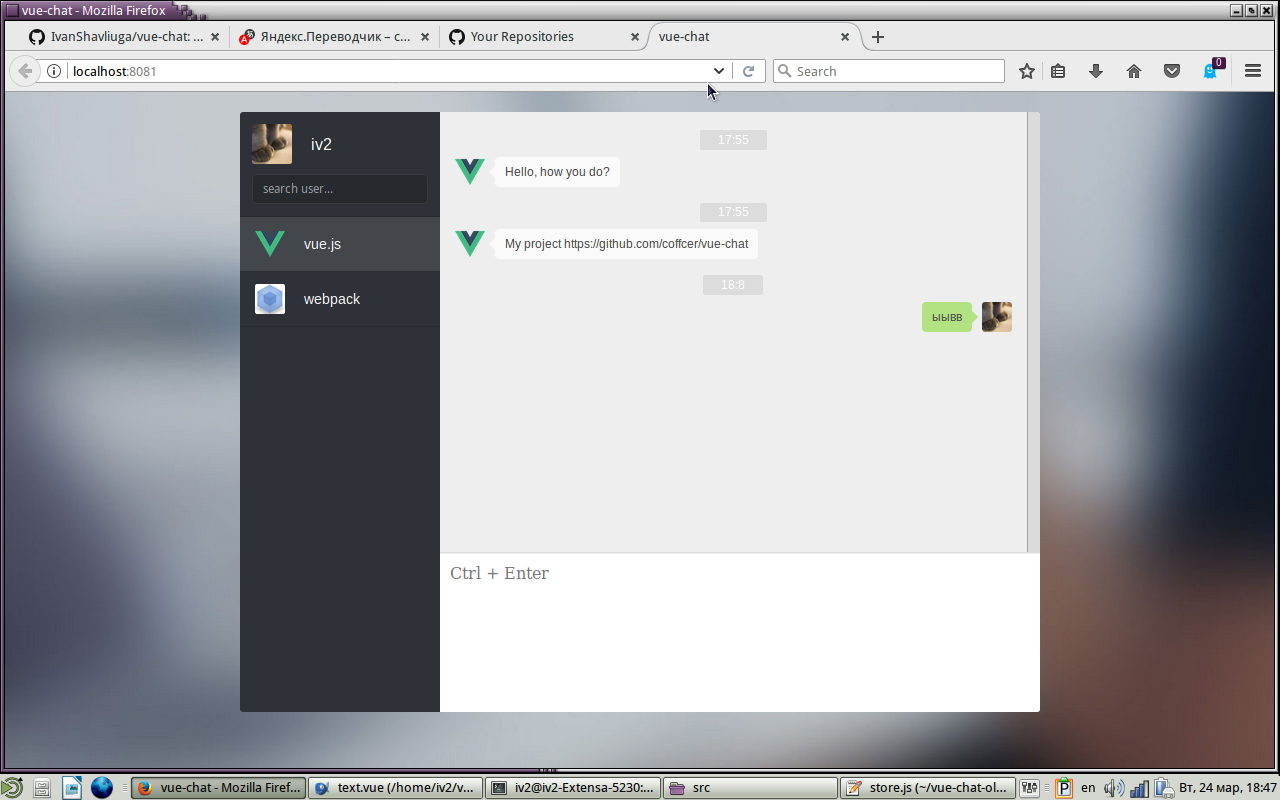
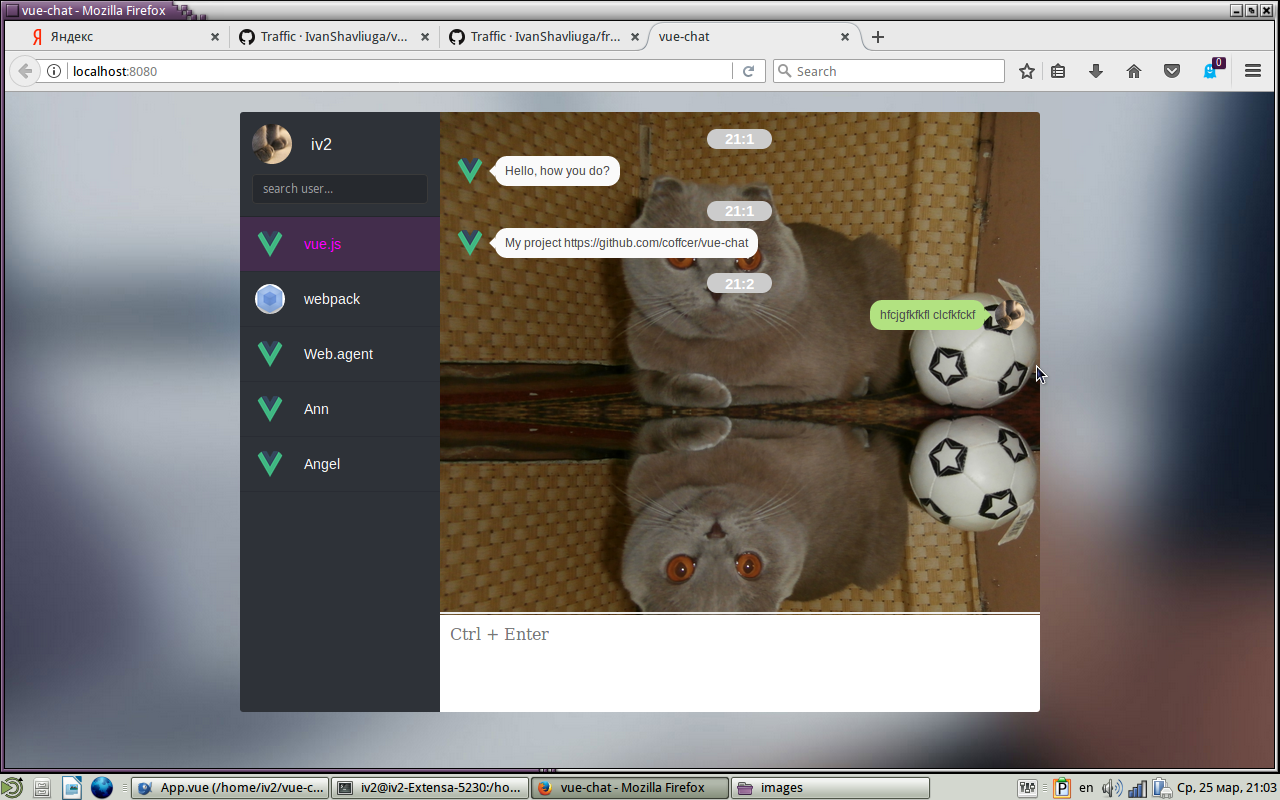
Update background

diff --git a/src/components/message.vue b/src/components/message.vue
@@ -2,7 +2,6 @@
     import {mapGetters, mapState} from 'vuex';
     export default {
         computed: {
-            // 使用 (...) 对象展开运算符将 getter 以及 state 混入 computed 对象中
             ...mapGetters([
                 'session'
             ]),
@@ -11,7 +10,6 @@
             ])
         },
         filters: {
-            // 将日期过滤为 hour:minutes
             time(date) {
                 if (typeof date === 'string') {
                     date = new Date(date);
@@ -20,9 +18,7 @@
             }
         },
         directives: {
-            // 发送消息后滚动到底部
             'scroll-bottom': {
-                // 在当前组件及其子组件更新完成后调用
                 componentUpdated: function (el, binding, vnode) {
                     el.scrollTop = el.scrollHeight - el.clientHeight;
                 }
@@ -61,7 +57,7 @@
                 padding: 0 18px;
                 font-size: 15px;
                 font-weight: bold;
-                color: #fef;
+                color: #fff;
                 border-radius: 18px;
                 background-color: #ccc;
             }

diff --git a/src/store.js b/src/store.js
@@ -49,6 +49,32 @@ const store = new Vuex.Store({
                         date: now
                     }
                 ]
+            },
+            {
+                id: 4,
+                user: {
+                    name: 'Ann',
+                    img: 'dist/images/2.png'
+                },
+                messages: [
+                    {
+                        content: 'Test string',
+                        date: now
+                    }
+                ]
+            },
+            {
+                id: 5,
+                user: {
+                    name: 'Angel',
+                    img: 'dist/images/2.png'
+                },
+                messages: [
+                    {
+                        content: 'Test string',
+                        date: now
+                    }
+                ]
             }
         ],
         currentSessionId: 1,

diff --git a/src/App.vue b/src/App.vue
@@ -52,7 +52,8 @@ import Message from 'components/message';
     .main {
         position: relative;
         overflow: hidden;
-        background-color: #eee;
+        background: url('/dist/images/background.JPG');
+        background-size: cover;
     }
     .text {
         position: absolute;
